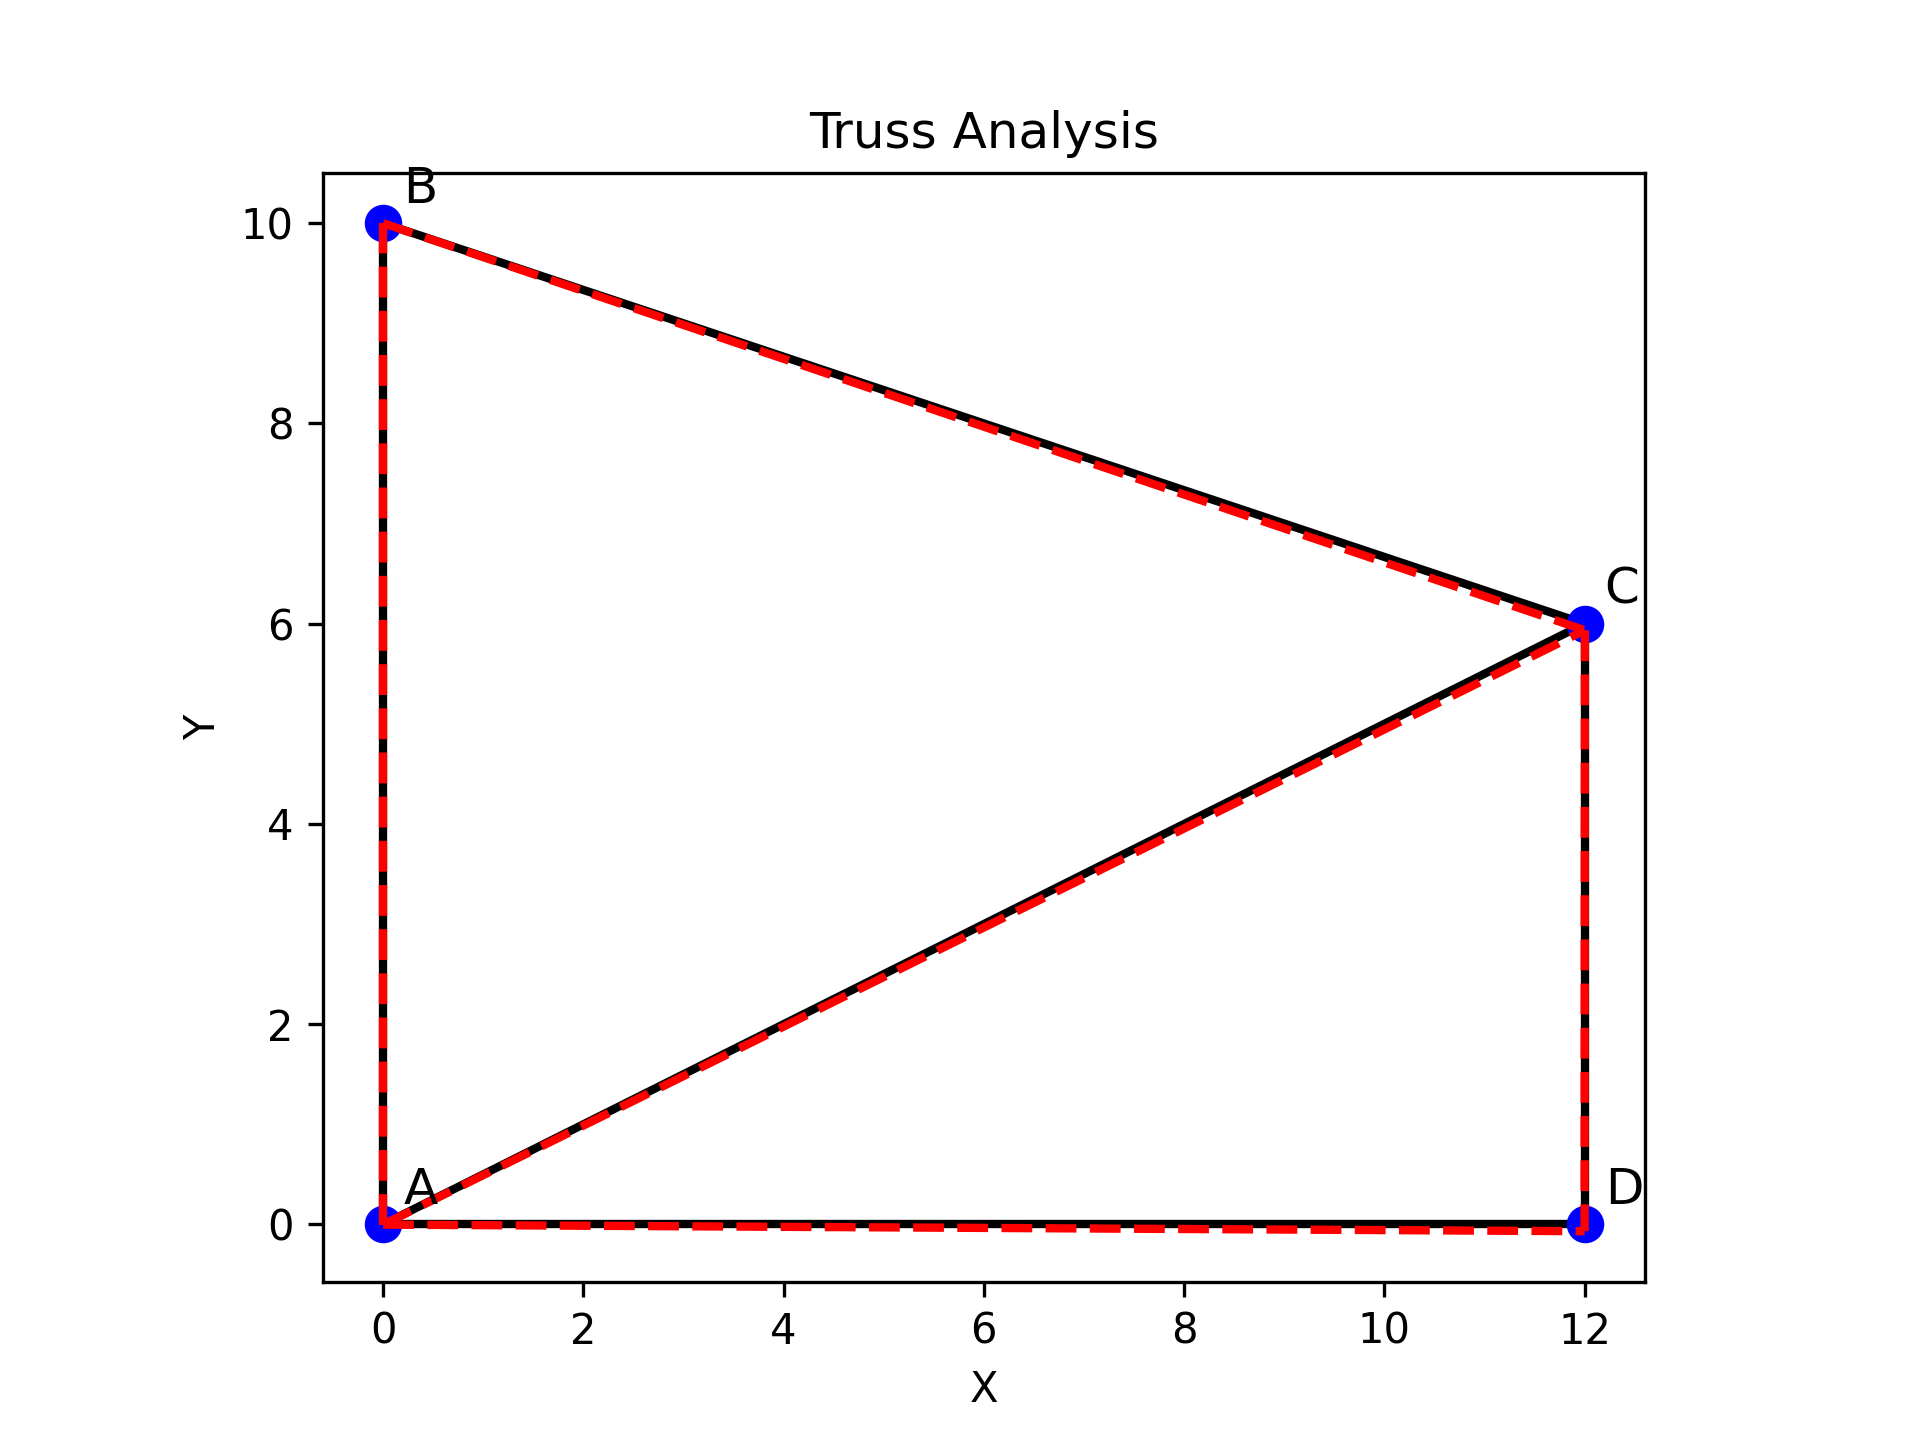
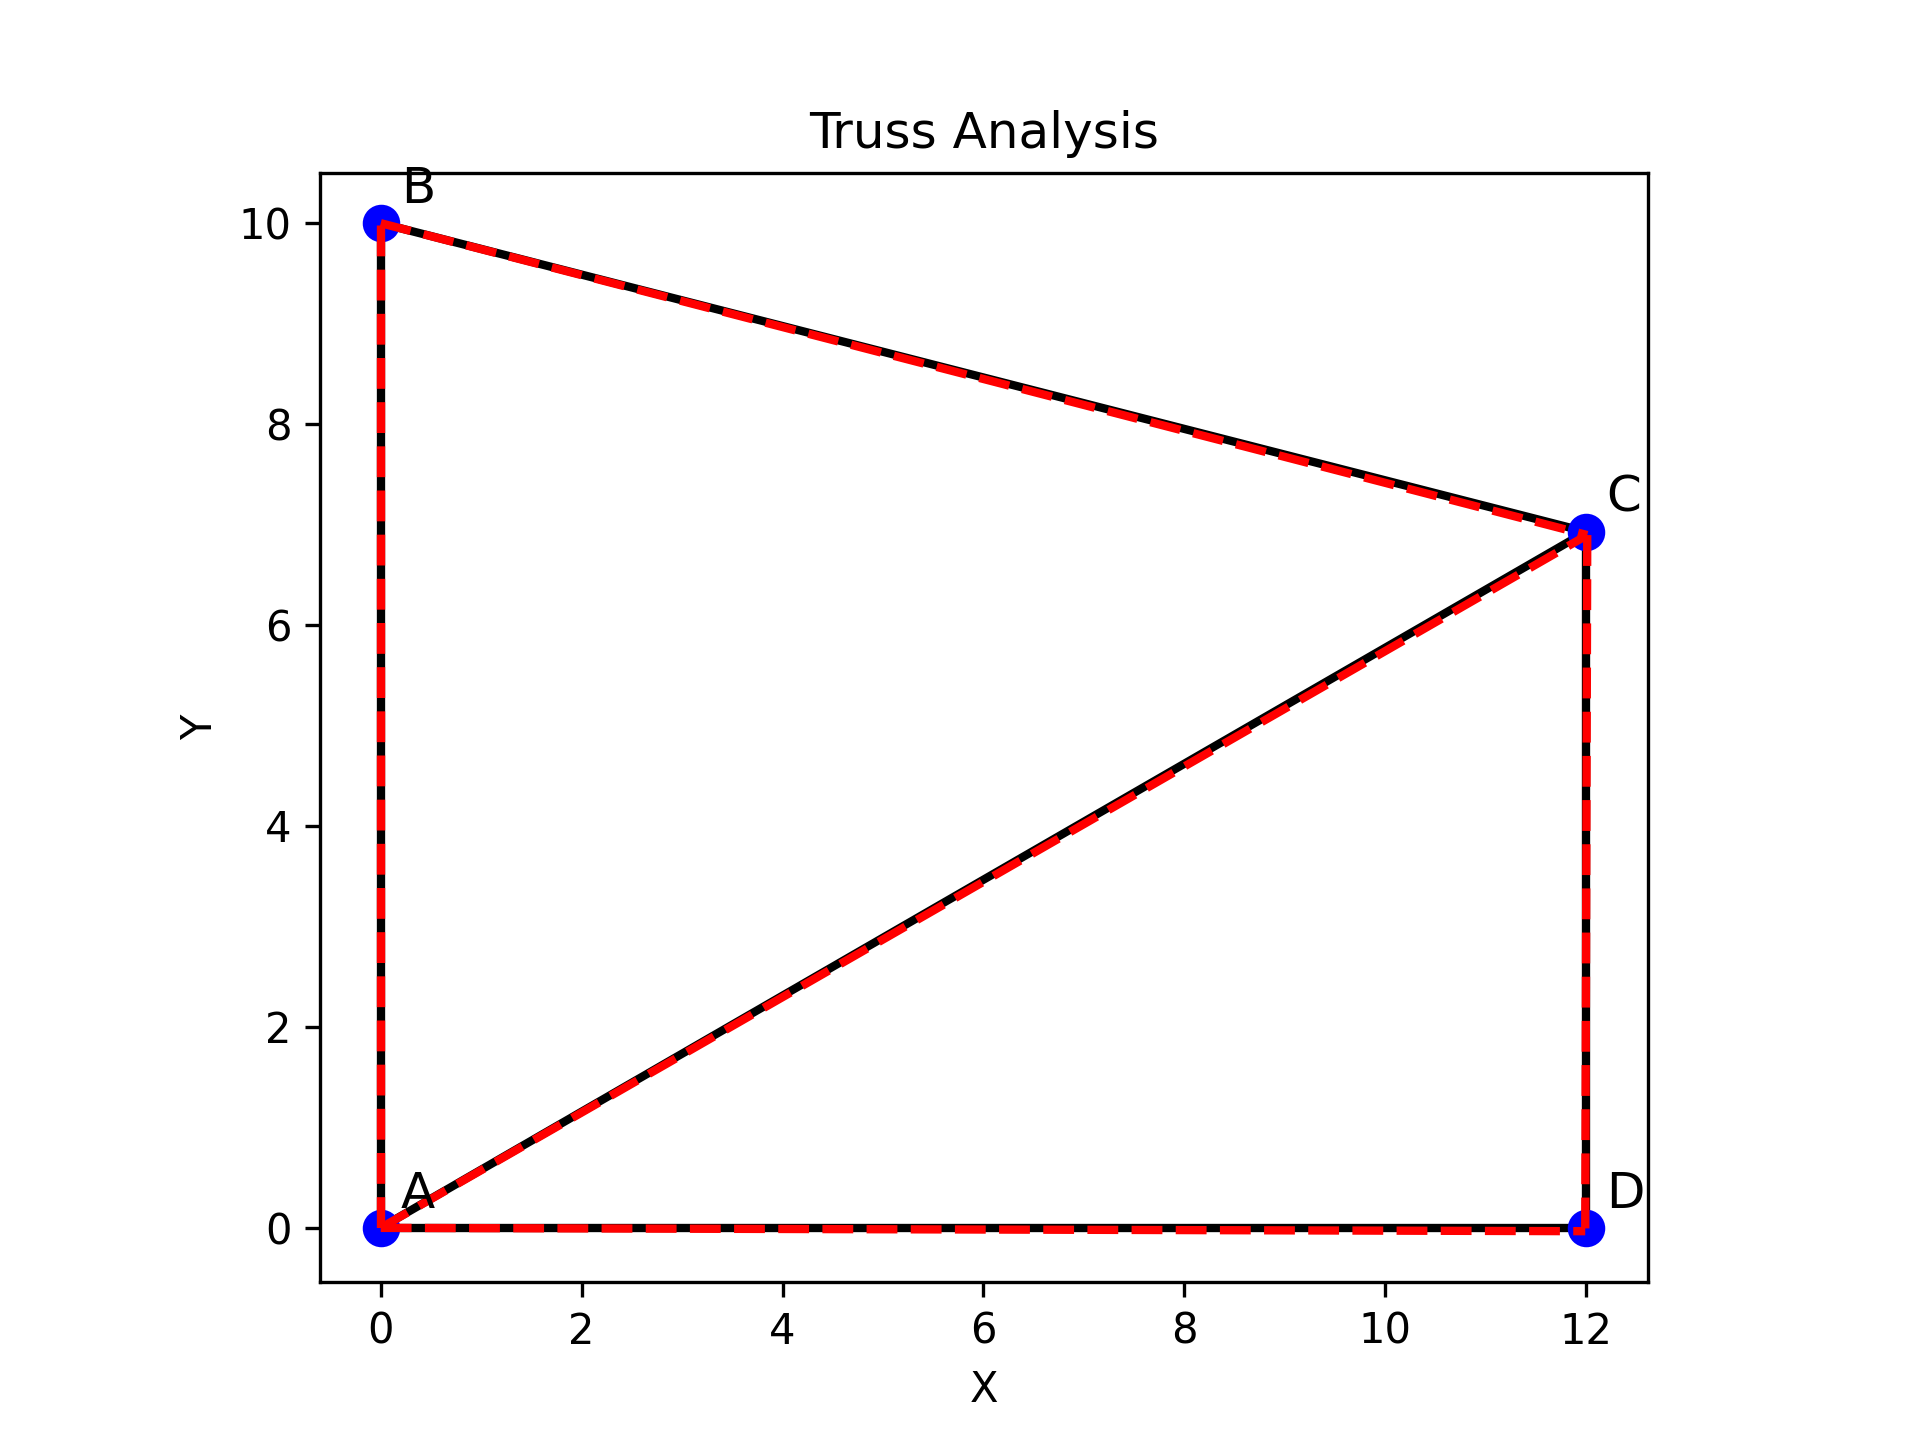
fix truss math

diff --git a/calculate_truss.py b/calculate_truss.py
@@ -1,44 +1,67 @@
-# -*- coding: utf-8 -*-
-"""
-Created on Tue Dec 17 12:46:56 2024
-
-@author: rober
-"""
-
 import numpy as np
 import matplotlib.pyplot as plt
 
-def analyze_truss(nodes, elements, materials, element_properties,
-                  external_forces, fixed_nodes, roller_angle=0,
-                  force_angle=270):
-    """
-    Analyzes a 2D truss structure under given conditions.
+def analyze_truss(force_angle = 240,  roller_angle = 30):
 
-    Args:
-        nodes (dict): Node coordinates as {'A': np.array([x, y]), ...}.
-        elements (dict): Element connectivity as {1: ['A', 'B'], ...}.
-        materials (dict): Material properties as {'steel': {'E': value, 'nu': value}, ...}.
-        element_properties (dict): Element properties as {1: {'material': 'steel', 'diameter': value}, ...}.
-        external_forces (dict): External forces as {'C': np.array([Fx, Fy]), ...}.
-        fixed_nodes (list): List of fixed nodes, e.g., ['A', 'B'].
-        roller_angle (float): Angle of the roller support in degrees (default: 0).
-        force_angle (float): Angle of the applied external force in degrees (default: 270).
+    force_node = 'D'
+    fixed_nodes = ['A', 'B']
 
-    Returns:
-        tuple: Nodal displacements, reaction forces, element stresses, and plot objects.
-    """
+    materials = {
+        'steel': {'E': 30e6},
+        'aluminum': {'E': 11e6}
+    }
 
-    # Convert angles to radians
-    # roller_angle = np.deg2rad(roller_angle)
-    # force_angle = np.deg2rad(force_angle)
+    element_properties = {
+        1: {'material': 'steel', 'diameter': 0.5},
+        2: {'material': 'steel', 'diameter': 0.5},
+        3: {'material': 'aluminum', 'diameter': 0.4},
+        4: {'material': 'aluminum', 'diameter': 0.4},
+        5: {'material': 'steel', 'diameter': 0.5}
+    }
 
-    # Calculate element lengths and angles
-    element_lengths = {}
+    elements = {
+        1: ['A', 'B'],
+        2: ['A', 'C'],
+        3: ['A', 'D'],
+        4: ['B', 'C'],
+        5: ['C', 'D']
+    }
+
+    fixed_element_lengths = {
+        1: float(10),
+        2: 12/np.cos(np.deg2rad(roller_angle)),
+        3: float(12)
+    }
+
+    fixed_nodes_coords = {
+        'A': np.array([0, 0]),
+        'B': np.array([0, 10]),
+        'D': np.array([12, 0])
+    }
+
+    
+    roller_angle = np.deg2rad(roller_angle)
+    force_angle = np.deg2rad(force_angle)
+
+    external_forces = {
+        force_node : np.array([np.cos(force_angle)* 2000, np.sin(force_angle)*2000])  
+    }
+
+
+    element_lengths = fixed_element_lengths
+
+    element_lengths[5] = element_lengths[3] * np.tan(roller_angle)
+    element_lengths[4] = np.sqrt(element_lengths[1]**2 + element_lengths[2]**2 - 2* element_lengths[1]*element_lengths[2]*np.cos(np.pi/2 - roller_angle))
+
+    nodes = fixed_nodes_coords
+
+    nodes['C'] = np.array([element_lengths[3], element_lengths[5]])
+
     element_angles = {}
     for element, (node1, node2) in elements.items():
         delta = nodes[node2] - nodes[node1]
-        element_lengths[element] = np.linalg.norm(delta)
         element_angles[element] = np.arctan2(delta[1], delta[0])
+
 
     # Calculate element stiffness matrices
     element_stiffness_matrices = {}
@@ -47,8 +70,20 @@ def analyze_truss(nodes, elements, materials, element_properties,
         theta = element_angles[element]
         E = materials[element_properties[element]['material']]['E']
         A = np.pi * (element_properties[element]['diameter'] / 2) ** 2
-        c = np.cos(theta)
-        s = np.sin(theta)
+        
+        # Handle numerical precision issues
+        if np.isclose(theta, 0):
+            c, s = 1.0, 0.0
+        elif np.isclose(theta, np.pi/2):
+            c, s = 0.0, 1.0
+        elif np.isclose(theta, np.pi):
+            c, s = -1.0, 0.0
+        elif np.isclose(theta, 3*np.pi/2):
+            c, s = 0.0, -1.0
+        else:
+            c = np.cos(theta)
+            s = np.sin(theta)
+
         k = E * A / L * np.array([
             [c**2, c*s, -c**2, -c*s],
             [c*s, s**2, -c*s, -s**2],
@@ -135,52 +170,23 @@ def analyze_truss(nodes, elements, materials, element_properties,
 
     return U_global, reaction_forces, element_stresses, (fig, ax)
 
-# Example usage with variable conditions
-nodes = {
-    'A': np.array([0, 0]),
-    'B': np.array([0, 10]),
-    'C': np.array([12, 6]),
-    'D': np.array([12, 0])
-}
 
-elements = {
-    1: ['A', 'B'],
-    2: ['A', 'C'],
-    3: ['A', 'D'],
-    4: ['B', 'C'],
-    5: ['C', 'D']
-}
+roller_angle = 30
+force_angle = 240
 
-materials = {
-    'steel': {'E': 30e6, 'nu': 0.3},  # Steel
-    'aluminum': {'E': 11e6, 'nu': 0.33}  # Aluminum
-}
+U, R, S, plots = analyze_truss(force_angle=force_angle, roller_angle=roller_angle)
 
-element_properties = {
-    1: {'material': 'steel', 'diameter': 0.5},
-    2: {'material': 'aluminum', 'diameter': 0.4},
-    3: {'material': 'steel', 'diameter': 0.5},
-    4: {'material': 'aluminum', 'diameter': 0.4},
-    5: {'material': 'steel', 'diameter': 0.5}
-}
-
-external_forces = {
-    'D': np.array([0, -2000])  # Force at node C
-}
-
-U, R, S, plots = analyze_truss(nodes, elements, materials, element_properties,
-                                external_forces, ['A', 'B'], roller_angle=30, force_angle=135)
 
 # Print results
 print("Nodal Displacements:")
-for i, node in enumerate(nodes):
-    print(f"{node}: {U[2*i:2*i+2]}")
+for i, node in enumerate(['A', 'B', 'C', 'D']):
+    print(f"{node}: {U[2*i:2*i+2]} in")
 print("\nReaction Forces:")
 for node, force in R.items():
-    print(f"{node}: {force}")
+    print(f"{node}: {force} lb")
 print("\nElement Stresses:")
 for element, stress in S.items():
-    print(f"Element {element}: {stress}")
+    print(f"Element {element}: {stress} psi")
 
 # Save the plot to a file
 figure, axis = plots  # Unpack the Matplotlib figure and axis
